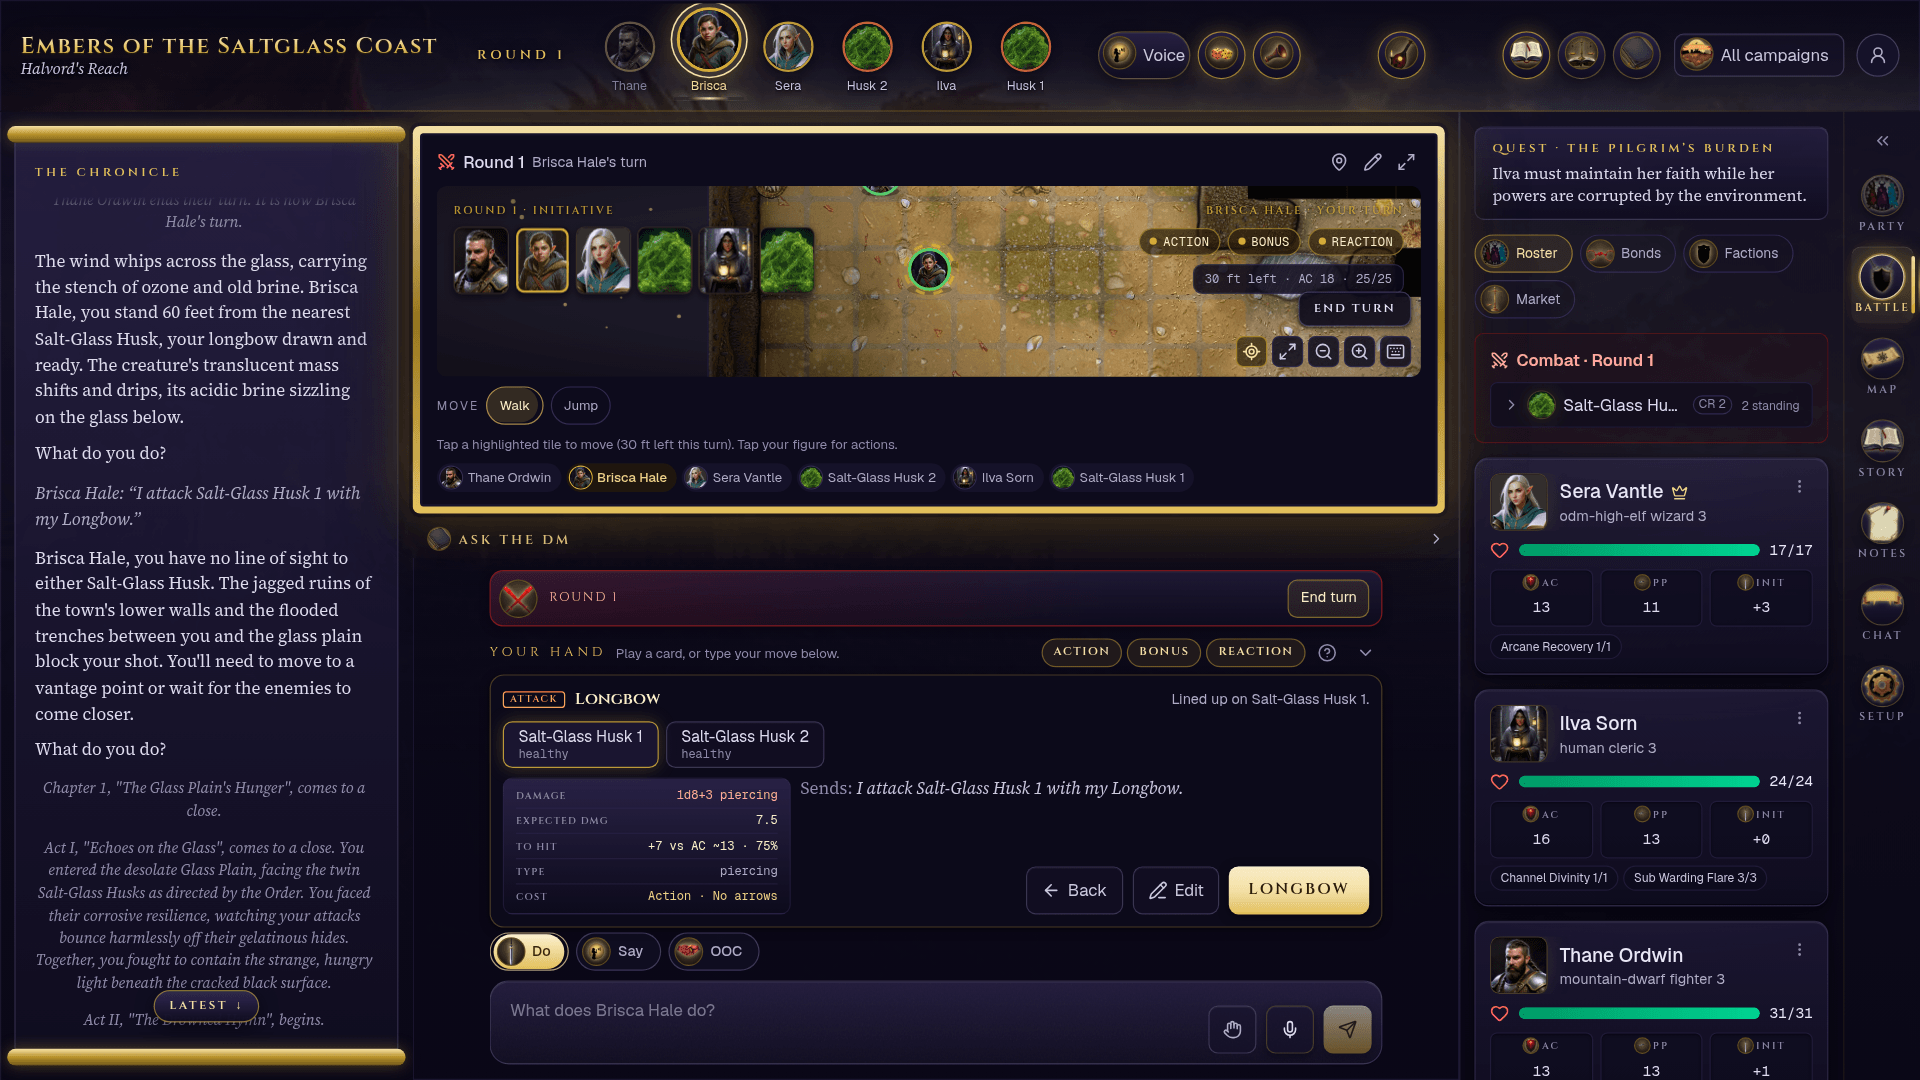
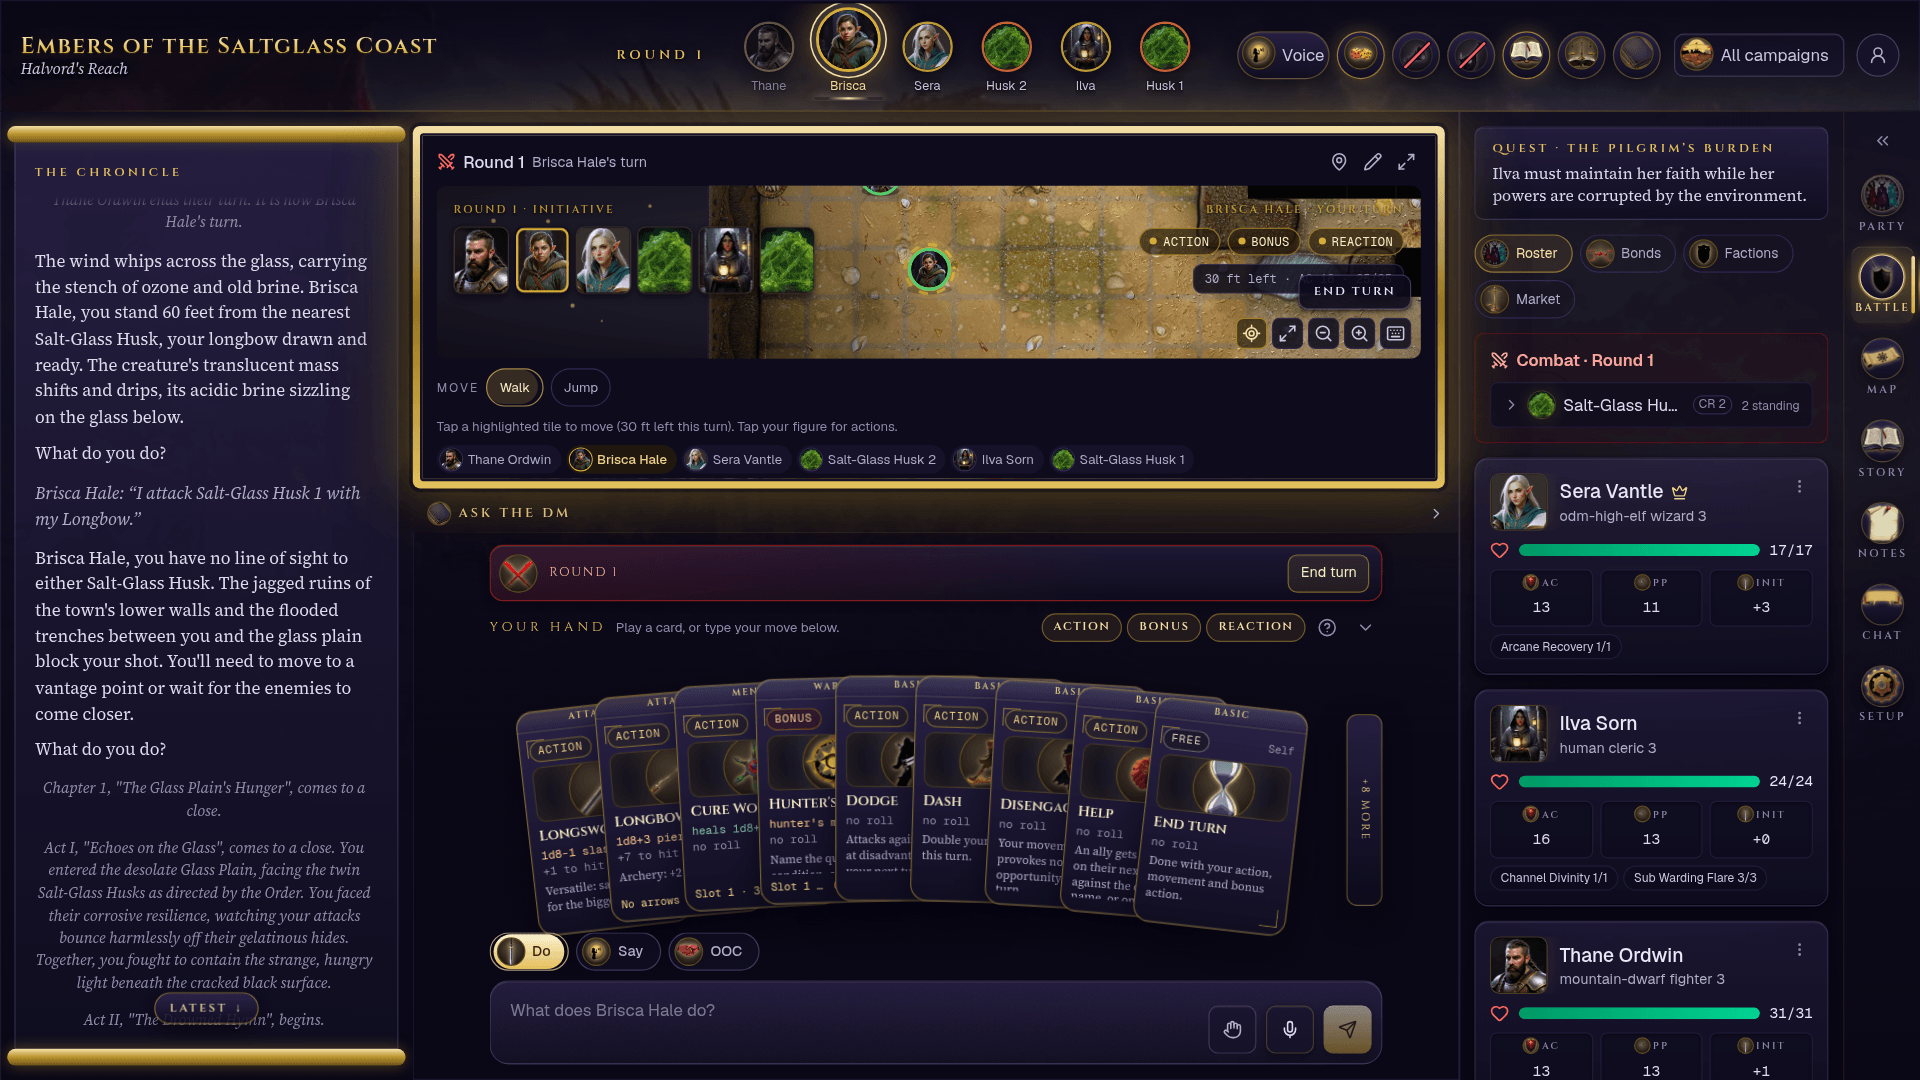
README: the Your turn, in cards shot shows the hand
The card-target capture showed one lifted card's target panel, since lifting
a card folds the hand away. This one has the whole hand fanned out under the
battle map.

diff --git a/README.md b/README.md
@@ -38,7 +38,7 @@ and companions, following a secret story arc it regenerates as the campaign move
 
 ### Your turn, in cards
 
-<img src="docs/screenshot-table.png" alt="A fight in progress: the battle map docked above the hand of action cards, a longbow card lifted with its two targets, damage and to-hit odds, the chronicle on the left and the party on the right" width="960">
+<img src="docs/screenshot-table.png" alt="A fight in progress: the hand of action cards fanned out under the battle map, from Longsword, Longbow, Cure Wounds and Hunter's Mark to Dodge, Dash, Help and End turn, with the chronicle on the left and the party on the right" width="960">
 
 <sub><i>A live session of <b>Embers of the Saltglass Coast</b>. Your hand holds every action the sheet allows, each card says what it rolls and what it costs, and the server does the rolling. The battle map, the turn order and the party sit around it.</i></sub>
 
